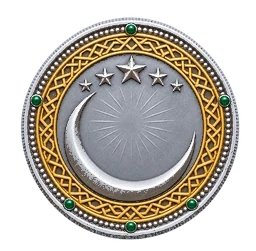
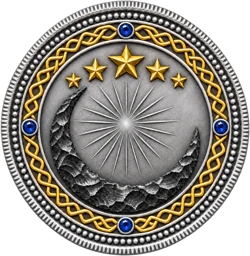
Art: Vigil coin, silver level
Claude-Session: https://claude.ai/code/session_01LLNSSFNzfHsbSUVKKUqHTx

diff --git a/sw.js b/sw.js
@@ -1,5 +1,5 @@
 // Network-first for the app shell so updates arrive right away; cache is the offline fallback.
-const CACHE = 'imc-v67';
+const CACHE = 'imc-v68';
 const SHELL = ['./', './index.html', './manifest.webmanifest', './icons/icon.svg', './icons/icon-192.png', './map.json', './map.jpg', './story.json', './battle.js', './election.js', './command.js', './profile.js', './rewards.js', './elec/us.json', './art/map_farmland.webp', './art/u_tank_light.webp'];
 self.addEventListener('install', e => { e.waitUntil(caches.open(CACHE).then(c => c.addAll(SHELL)).then(() => self.skipWaiting())); });
 self.addEventListener('activate', e => { e.waitUntil(caches.keys().then(ks => Promise.all(ks.filter(k => k !== CACHE).map(k => caches.delete(k)))).then(() => self.clients.claim())); });
